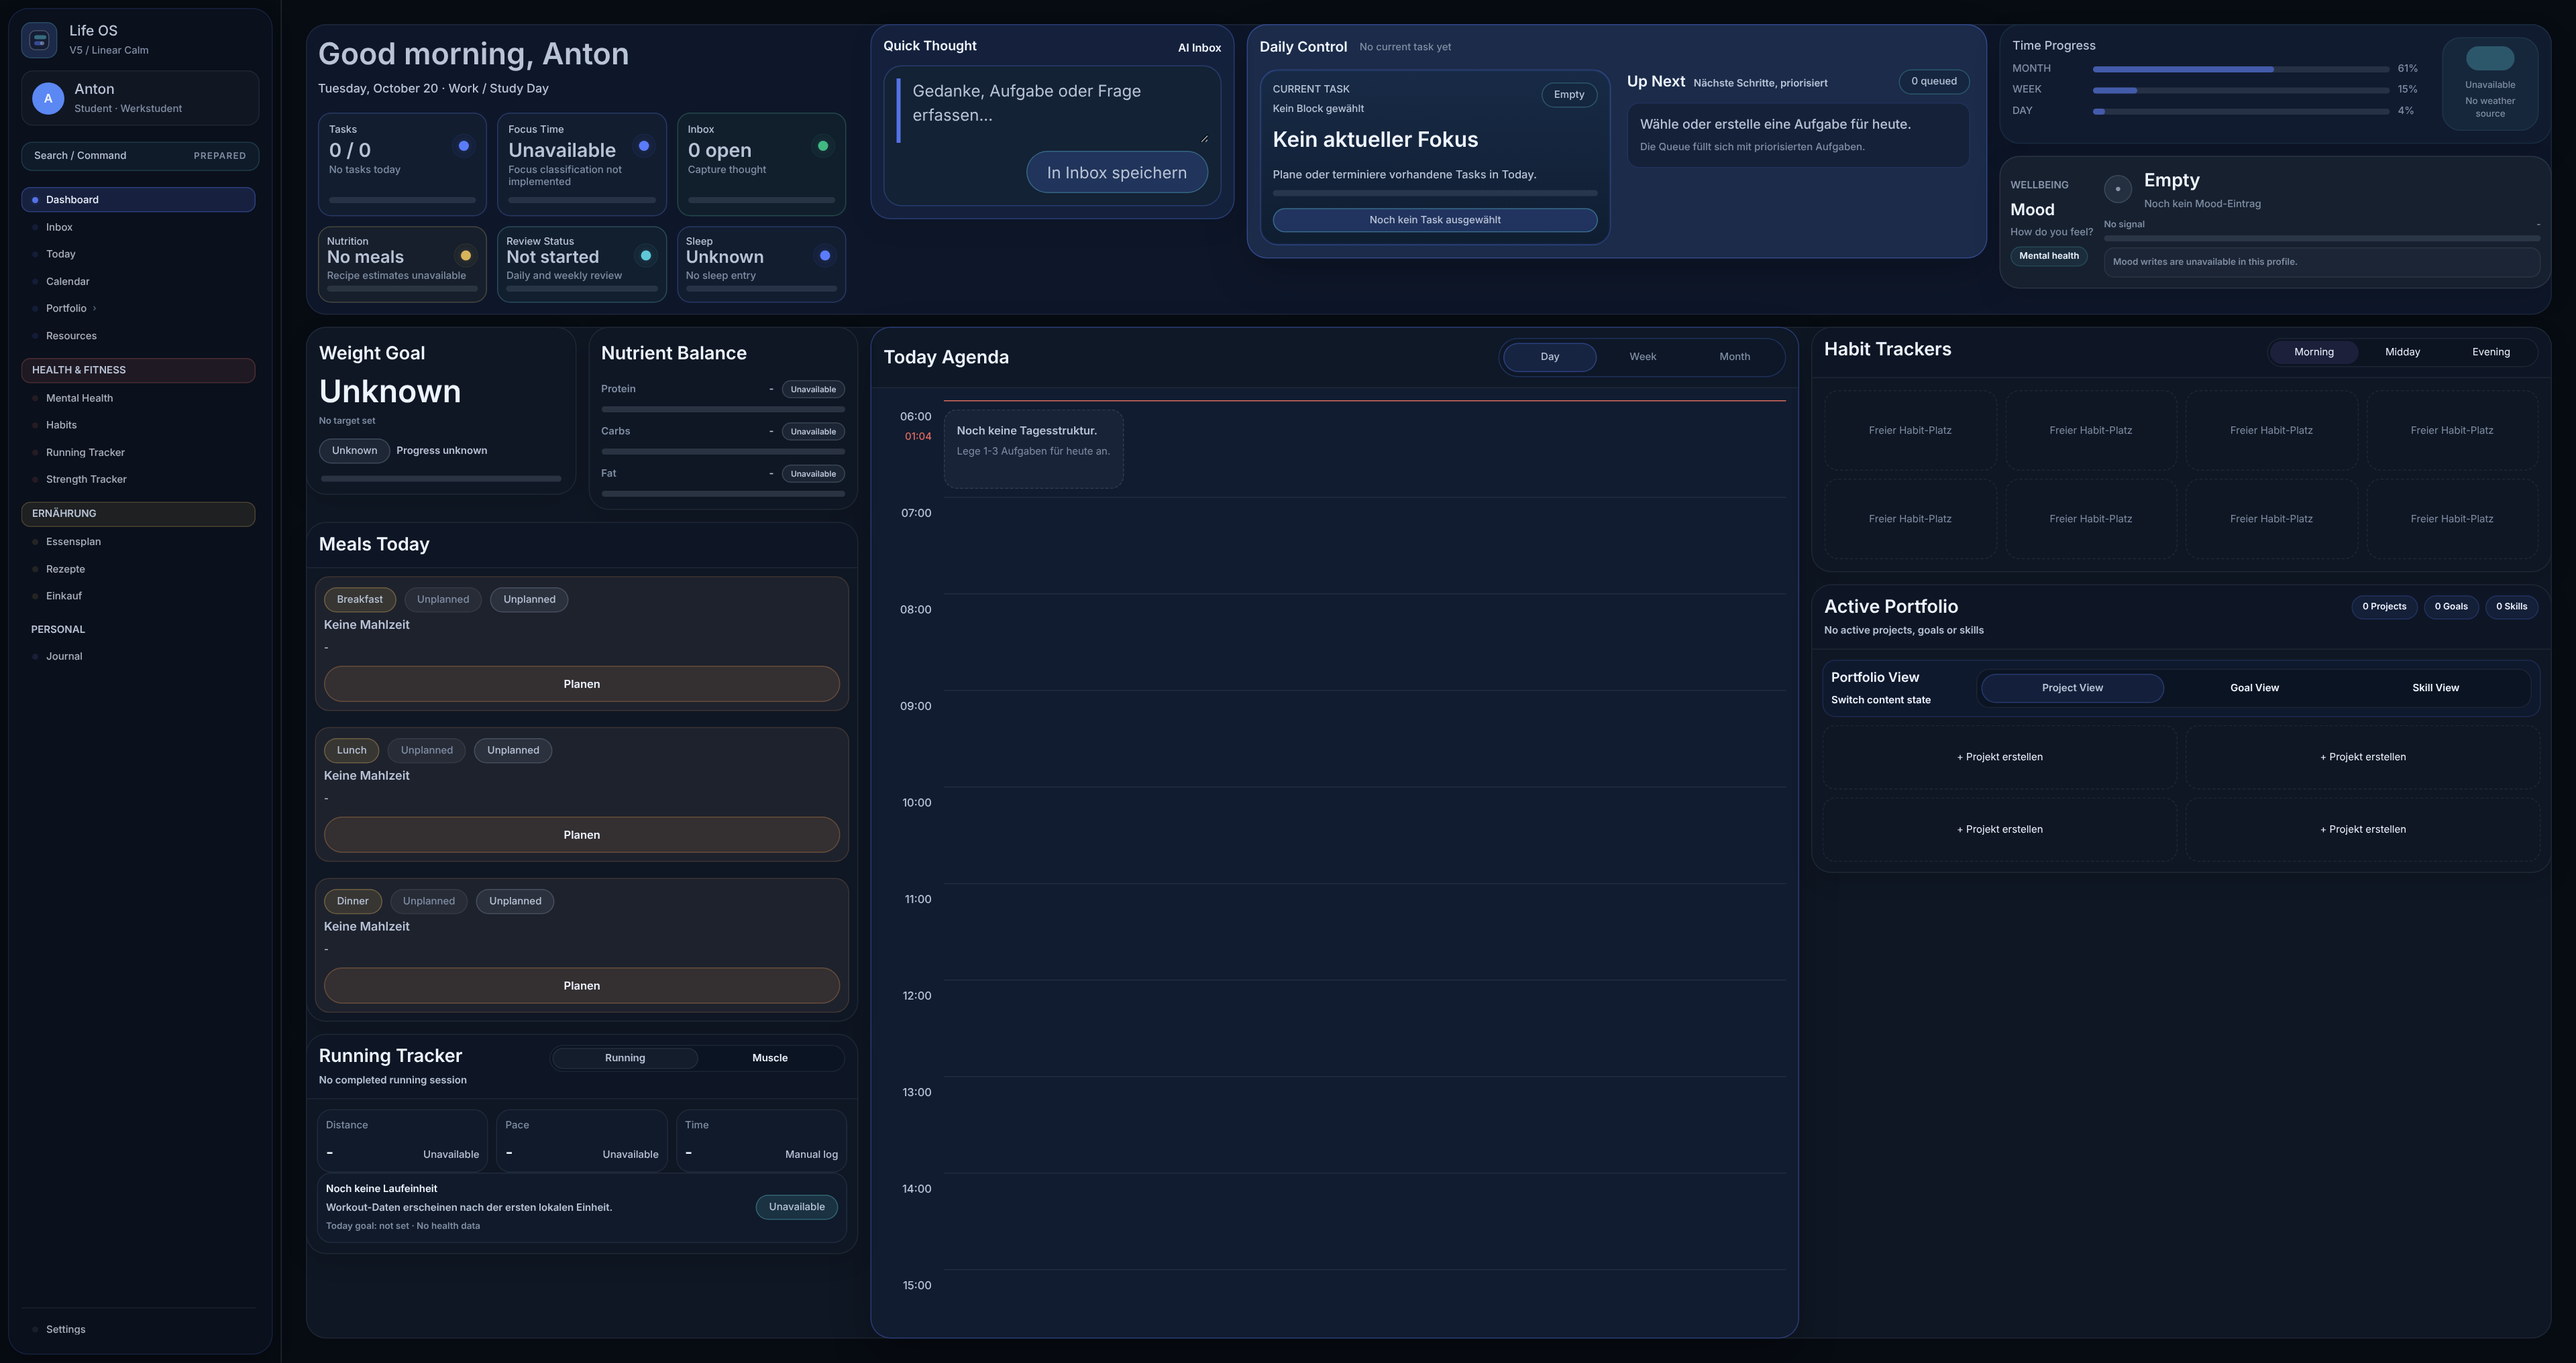
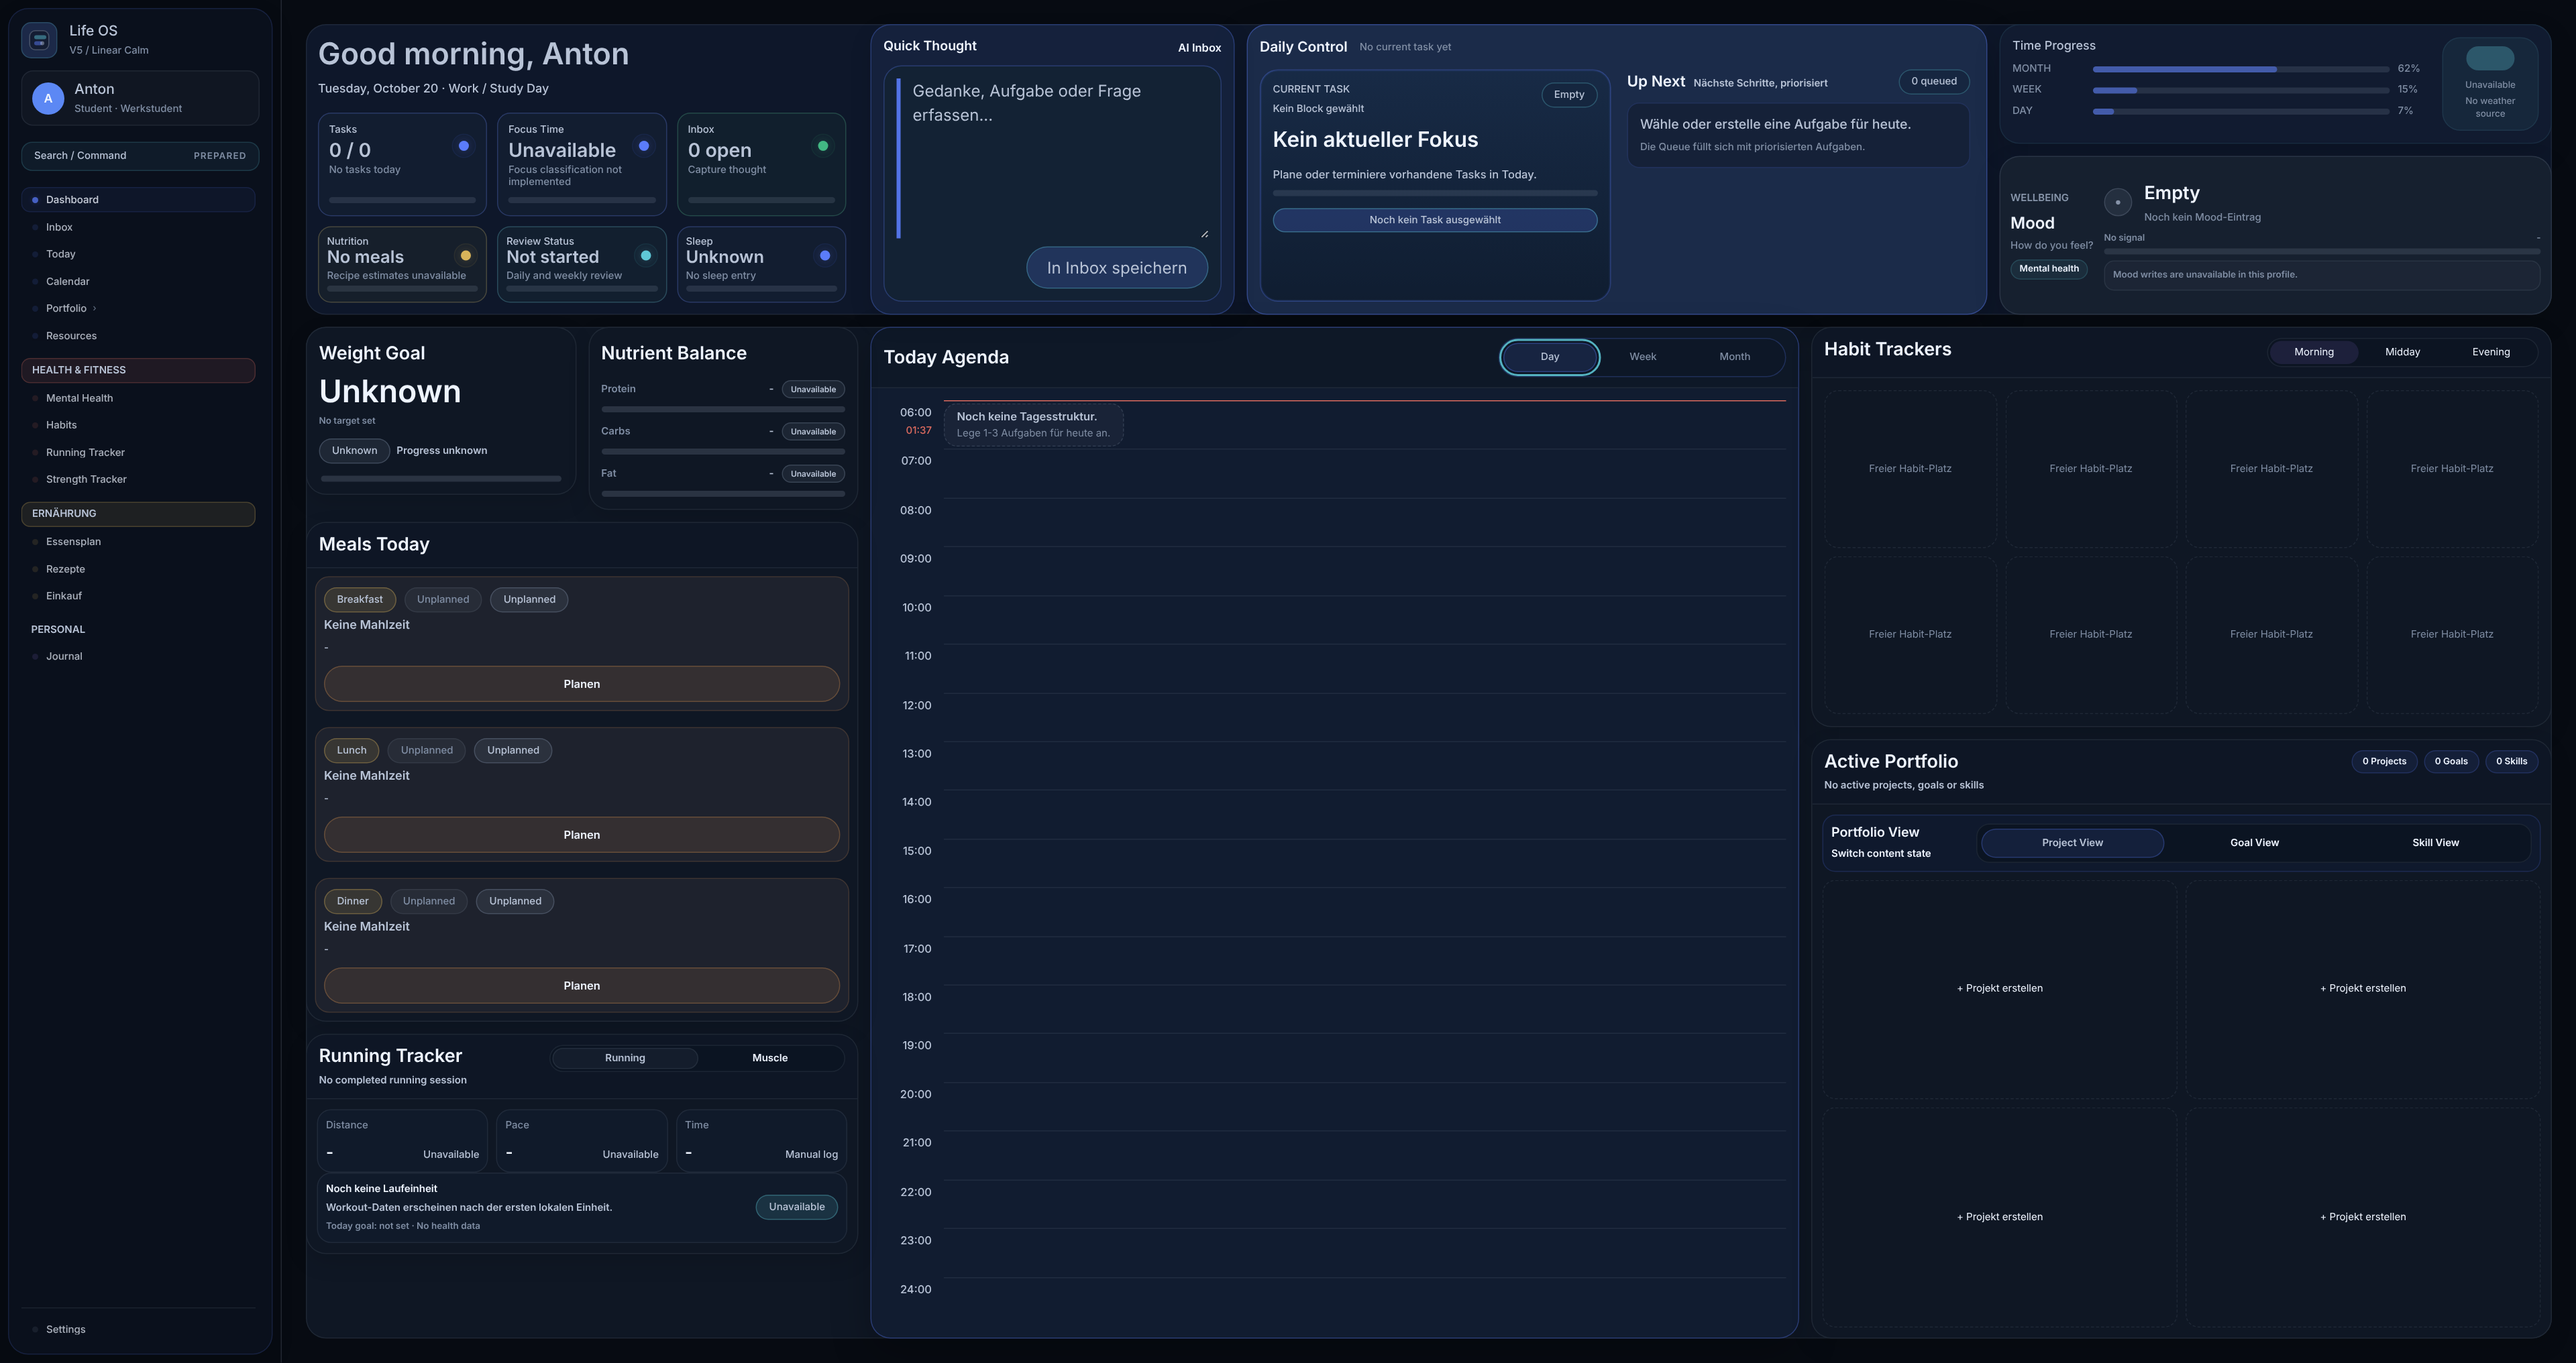
fix(dashboard): address full-day, rail and command visual findings (#112)

diff --git a/src/components/dashboard/dashboard-cockpit.css b/src/components/dashboard/dashboard-cockpit.css
@@ -79,6 +79,7 @@
   .dashboard-agenda {
     grid-column: 4 / 9;
     grid-row: 2;
+    container-type: size;
   }
   .dashboard-composition .dashboard-priority {
     grid-column: 9 / 13;
@@ -250,6 +251,85 @@
     flex-shrink: 0;
     white-space: nowrap;
   }
+}
+/* Roomy Wide: use the existing module bodies, rather than leaving holes around
+   content-sized panels. Short-Wide keeps its compact, scrollable allocation. */
+@media (min-height: 900px) {
+  @container life-os-canvas (min-width: 1440px) {
+    .dashboard-composition
+      :is(
+        .dashboard-stats,
+        .dashboard-quick,
+        .dashboard-daily,
+        .dashboard-signals
+      ) {
+      align-self: stretch;
+    }
+    .dashboard-daily {
+      grid-template-rows: auto minmax(0, 1fr);
+    }
+    .dashboard-quick > form,
+    .dashboard-quick textarea {
+      flex: 1;
+    }
+    .dashboard-signals {
+      align-content: stretch;
+      grid-template-rows: auto minmax(0, 1fr);
+    }
+    .dashboard-mood {
+      display: grid;
+      align-content: center;
+    }
+    .dashboard-composition .dashboard-priority {
+      grid-template-rows: minmax(0, 2fr) minmax(0, 3fr);
+      align-content: stretch;
+    }
+    .dashboard-priority > * {
+      align-self: stretch;
+    }
+    .dashboard-habits > [data-dashboard-section],
+    .dashboard-portfolio-body,
+    .dashboard-priority :is(.habit-slots, .portfolio-slots) {
+      flex: 1;
+    }
+    .dashboard-priority :is(.habit-slots, .portfolio-slots) {
+      grid-auto-rows: minmax(min-content, 1fr);
+      align-content: stretch;
+    }
+  }
+}
+/* Dashboard-only full-day overview when the assigned Agenda frame can fit
+   nineteen readable rows. Grouping and canonical intervals are unchanged;
+   smaller frames retain #164's 96px rows and internal scroll. */
+@container agenda (min-height: 960px) {
+  .agenda-body {
+    --agenda-day-overview: 1;
+    height: 100%;
+    grid-auto-rows: minmax(0, 1fr);
+    align-content: stretch;
+  }
+}
+@container agenda (960px <= height < 1440px) {
+  .agenda-hour-label {
+    padding-block: 4px;
+  }
+  .agenda-hour-label > p {
+    margin-top: 2px;
+  }
+  .agenda-hour-events {
+    padding-block: 2px;
+  }
+  .agenda-event-card,
+  .agenda-empty-state {
+    padding-block: 4px;
+  }
+  .agenda-event-time,
+  .agenda-empty-state > p + p {
+    margin-top: 0;
+  }
+  .agenda-event-note {
+    display: none;
+  } /* Full notes remain in the accessible description and detail link/title. */
 }
 /* Wide-Short retains the same macro hierarchy with compact, readable V5
    spacing. Only temporal/list bodies scroll; primary headers stay visible. */

diff --git a/src/components/dashboard/sections/today-agenda-section.tsx b/src/components/dashboard/sections/today-agenda-section.tsx
@@ -152,10 +152,10 @@ function AgendaEventCard({
           {event.relevanceLabel}
         </span>
       </div>
-      <p className="mt-1 truncate text-[10px] font-medium leading-tight text-[var(--text-secondary)]">
+      <p className="agenda-event-time mt-1 truncate text-[10px] font-medium leading-tight text-[var(--text-secondary)]">
         {event.time} · {event.statusLabel}
       </p>
-      <p className="mt-1 truncate text-[11px] leading-tight text-[var(--text-muted)]">
+      <p className="agenda-event-note mt-1 truncate text-[11px] leading-tight text-[var(--text-muted)]">
         {event.note}
       </p>
       <span id={descriptionId} className="sr-only">
@@ -279,7 +279,7 @@ export function TodayAgenda({
               const isCurrent = index === currentHour;
               return (
                 <Fragment key={hour}>
-                  <div className="min-w-0 py-2 text-right text-[11px] font-medium text-[var(--text-secondary)]">
+                  <div className="agenda-hour-label min-w-0 py-2 text-right text-[11px] font-medium text-[var(--text-secondary)]">
                     {hour}
                     {isCurrent && (
                       <p className="mt-1 text-[10px] text-[var(--accent-red)]">
@@ -309,6 +309,7 @@ export function TodayAgenda({
                     ))}
                     {index === 0 && events.length === 0 && (
                       <DashboardEmptyState
+                        className="agenda-empty-state"
                         description="Lege 1-3 Aufgaben für heute an."
                         title="Noch keine Tagesstruktur."
                       />

diff --git a/DESIGN.md b/DESIGN.md
@@ -84,7 +84,7 @@ Die bestehende V5-App bleibt Grundlage; Domain- und Interaktionssemantik ändern
 - **C = nutzbare Containerbreite:** unter 880 CSS px Linear; 880–1439 Split, wo sinnvoll; ab 1440 Wide mit drei fachlich sinnvollen Regionen. Lokale Module und Rails prüfen zusätzlich ihren eigenen Platz. Viewportbreite entscheidet Shell/Navigation, Containerbreite die Surface-Komposition; DPR niemals das Layout.
 - **H = CSS-Viewporthöhe:** unter 720 px normaler Dokumentfluss ohne künstliches Fill, außer beim Wide-Dashboard (siehe unten). Ab 720 darf ein gemeinsamer Frame freie Resthöhe aufnehmen, wenn C mindestens 880 ist. Shell-/Header-Flow liefert die tatsächliche Restfläche; keine route-spezifischen Höhenabzüge. Das künstliche Mindestziel bleibt auf höchstens 2160 px nutzbare Canvas-Höhe begrenzt; echter Inhalt hat keine Obergrenze.
 - **Frames statt gestreckter Cards:** Orientierung, Command und Supporting/Review bleiben content-sized; nur der gemeinsame Work-Rahmen nimmt Restfläche auf. Innere Cards, Task-Zeilen und Journey bleiben oben geführt. Fehlender Context kollabiert; Rails stacken, wenn sie nicht passen. Lange Inhalte wachsen mit dem Dokument; das Wide-Dashboard verwendet sein explizites Cockpit-Opt-in.
-- **Dashboard:** [#112 USER target, 2026-10-20](https://github.com/Planton361/life-os/issues/112) restores the historical V5 macro-layout on current components. C≥1440 bleibt ein One-Glance-Cockpit ohne erforderlichen Body-Scroll, auch bei H<720. Wide: heutiger Stats / Quick / Daily / Signals Command-Bereich oben; links Weight/Nutrients, Meals und Running als Stack; große Today Agenda mittig; rechts Habits über Active Portfolio. Primär ist PG27UCDM 2560×1355 @ DPR 1.5; Short-Wide bleibt Regression. Passende Listen- und Inhalts-Bodies dürfen innerhalb sichtbarer Cards mit Tastaturzugang scrollen. Innere Cards bleiben content-led, ohne CSS-Zoom oder kleinere Schrift als Fit-Abkürzung. Unter 900px Höhe bleiben die vorhandenen kompakten V5-Abstände und die horizontale Time/Mood-Komposition. Split: Daily + Quick, Stats + Signals, Agenda + P1, dann P2. Linear: Daily → Agenda → Quick → Signals → Stats → Habits/Portfolio → Health/Nutrition. Sparse und populated verwenden dieselbe Makrohierarchie. Die aktuelle Day/Week/Month-Agenda mit gemeinsamem Scrollrahmen und 96px-Stundenzeilen bleibt erhalten.
+- **Dashboard:** [#112 USER target, 2026-10-20](https://github.com/Planton361/life-os/issues/112) restores the historical V5 macro-layout on current components. C≥1440 bleibt ein One-Glance-Cockpit ohne erforderlichen Body-Scroll, auch bei H<720. Wide: heutiger Stats / Quick / Daily / Signals Command-Bereich oben; links Weight/Nutrients, Meals und Running als Stack; große Today Agenda mittig; rechts Habits über Active Portfolio. Primär ist PG27UCDM 2560×1355 @ DPR 1.5; Short-Wide bleibt Regression. Passende Listen- und Inhalts-Bodies dürfen innerhalb sichtbarer Cards mit Tastaturzugang scrollen. Inhalte bleiben ehrlich und lesbar, ohne CSS-Zoom oder kleinere Schrift als Fit-Abkürzung; die explizit geforderte Roomy-Wide-Rail-Füllung verteilt bestehende Slot-Bodies über den verfügbaren Rahmen. Unter 900px Höhe bleiben die vorhandenen kompakten V5-Abstände und die horizontale Time/Mood-Komposition. Split: Daily + Quick, Stats + Signals, Agenda + P1, dann P2. Linear: Daily → Agenda → Quick → Signals → Stats → Habits/Portfolio → Health/Nutrition. Sparse und populated verwenden dieselbe Makrohierarchie. Day/Week/Month behalten denselben äußeren Agenda-Rahmen. Nach dem USER-Finding vom 2026-10-20 zeigt allein die Dashboard-Day-Präsentation ab 960px zugewiesener Agenda-Höhe alle 19 Stundenlabels 06:00–24:00 in gleichmäßigen, inhaltsunabhängigen Zeilen; darunter bleiben 96px-Zeilen und interner Scroll. Kanonische Intervalle, Stundengruppierung und Calendar-Geometrie bleiben unverändert. Im ausreichend hohen Wide-Dashboard füllen Habits und Portfolio die rechte Rail im Verhältnis 2:3; Command-Module teilen bündige Bandkanten und nutzbare Bodies.
 - **Details:** Project [#87](https://github.com/Planton361/life-os/issues/87#issuecomment-5938627502) und Skill [#102](https://github.com/Planton361/life-os/issues/102#issuecomment-5974677264) behalten ihre fachliche Grammatik und Verhältnisse. Goal [#131](https://github.com/Planton361/life-os/issues/131) ersetzt das Work/Journey-Verhältnis und #52s Mindesthöhe bei unveränderter Goal-Semantik. B8 ersetzt widersprechende visuelle Vorgaben. Gemeinsame C/H-/Rail-Fit-Regeln ändern keine READY/BLOCKED-, Lernweg-, Review- oder Task-Semantik.
 - **Bestehende bounded Workspaces:** Today, Calendar und Portfolio behalten ihr explizites Scroll-Workspace-Opt-in bei ausreichend C/H. Short und Linear lösen dieses Opt-in in normalen Dokumentfluss auf. Calendar-Zeitgeometrie und alle Produktflows bleiben erhalten.
 - **Shell:** kompakte Navigation, wenn Sidebar + Split-Canvas + Gutters nicht passen; Desktop-Sidebar bei 280 + 880 + 2×24 px. Symmetrische Canvas-Gutters und begrenzte maximale Lesebreite bei großer/4K-Fläche, ohne CSS-Zoom oder Geräte-Breakpoints.

diff --git a/docs/product/capability-registry.md b/docs/product/capability-registry.md
@@ -145,13 +145,23 @@ not final USER ACCEPTED of #112 or product closure.
 Current #112 layout restoration (2026-10-20) keeps these `CONNECTED` capabilities
 and restores only the historical `f0b5891` macrostructure on the current runtime:
 Command above, Health/Nutrients → Meals → Running left, Agenda center, Habits →
-Portfolio right. The current shared Day/Week/Month frame and 96px hour rows remain.
+Portfolio right. USER rejected the first PR #166 revision `b6704ae` visually;
+the same-PR repair retains that macrostructure and addresses the three findings:
+full-day overview, a filled right rail and aligned Command modules. Only the
+Dashboard presentation changes. At an assigned Agenda height >=960px, all 19
+labels 06:00–24:00 fit simultaneously in equal, content-independent rows; smaller
+frames retain 96px rows/internal scroll. Canonical intervals, hour grouping,
+Calendar geometry and the shared Day/Week/Month outer frame are unchanged.
+Compact overview cards show title/time/status; full notes remain in their
+accessible description, title and real detail navigation. No font scaling.
 `tests/sqlite/issue-160-browser-proof.mjs` reuses the existing disposable native
 SQLite browser harness and cockpit helpers: Manual/Demo/Empty at PG27UCDM
 2560×1355 DPR1.5, 2560×589 DPR1, 2560×639 DPR1.5, 1920×1080, 3840×2160,
 769×413 DPR2, 390×844 and Split 1440×900. Assertions cover real DPR, all 12 Wide
 zones, left/center/right bounds, no overlap/clipped controls/scaling/body scroll,
 intrinsic Meal rows, keyboard/wheel scroll, stable Agenda switches and reload.
+The repair adds actual full-day label/interval visibility, zero vertical Day
+scroll at PG27UCDM/4K, filled right-rail bounds and aligned Command bottoms.
 The existing Dashboard control proof is reused for tabs, six Mood choices and
 Habit creation; capture/error/Inbox reload and Habit increment/undo/reload are
 also proved. Dashboard links, including all three Meal planning links and the
@@ -162,9 +172,16 @@ PG27UCDM Empty comparison against unmodified `f5737d4`, same 2560×1355 DPR1.5:
 [before](../qa/dashboard-v5-pg27-before.png) /
 [after](../qa/dashboard-v5-pg27-after.png). Agenda changes from
 `x304 y325 1110×775.5` to `x865 y325 923×1006` CSS px; document height remains
-1355. Command bounds are unchanged. Left stack is 549px wide; right is 736px
-wide, with content-led Cards. Screenshots show Empty presentation, not personal
-data; clock-derived labels remain live. This is implementation/browser evidence;
+1355. In Empty, the Command modules share y24–313; Habits occupy y325–722.59
+and Portfolio y734.59–1331 (2:3 allocation after the 12px gap). Empty right-rail
+space below Portfolio falls from 463px on `b6704ae` to 0px. Left stack remains
+549px wide; right remains 736px. [Populated synthetic Manual screenshot](../qa/dashboard-v5-pg27-populated.png)
+also proves 06:00–24:00 at 48px per row, with exact 30/60-minute labels readable.
+Both new PNGs are 3840×2033 at the actual 2560×1355 DPR1.5 target. Screenshots
+contain only Empty/disposable data; clock-derived labels remain live.
+V5 review: existing P0/P1 hierarchy, tokens and real controls fit V5; the rejected
+holes are addressed through existing workspace bodies. No decorative/fake data
+or shrinking typography. Scoped design review PASS; this is implementation/browser evidence;
 personal visual USER ACCEPTANCE of this revision is still required before merge.
 
 Prior composition browser evidence (historical, not a new acceptance claim):
